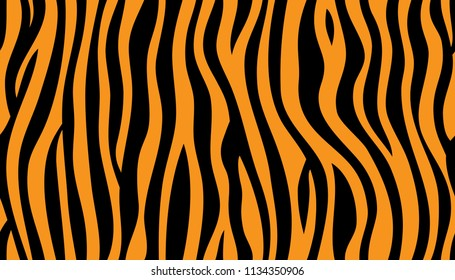
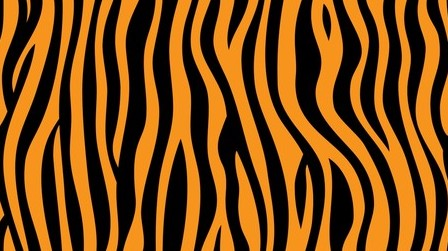
Cropped background image

diff --git a/index.html b/index.html
@@ -7,9 +7,13 @@
     <title>Naturewildlife</title>
 
     <style>
+        html, body {
+            height: 100vh;
+        }
+
         body {
             background: url(./stripes.jpeg) no-repeat;
-            background-size: cover;
+            background-size: 100% 100%;
         }
 
         .container {
